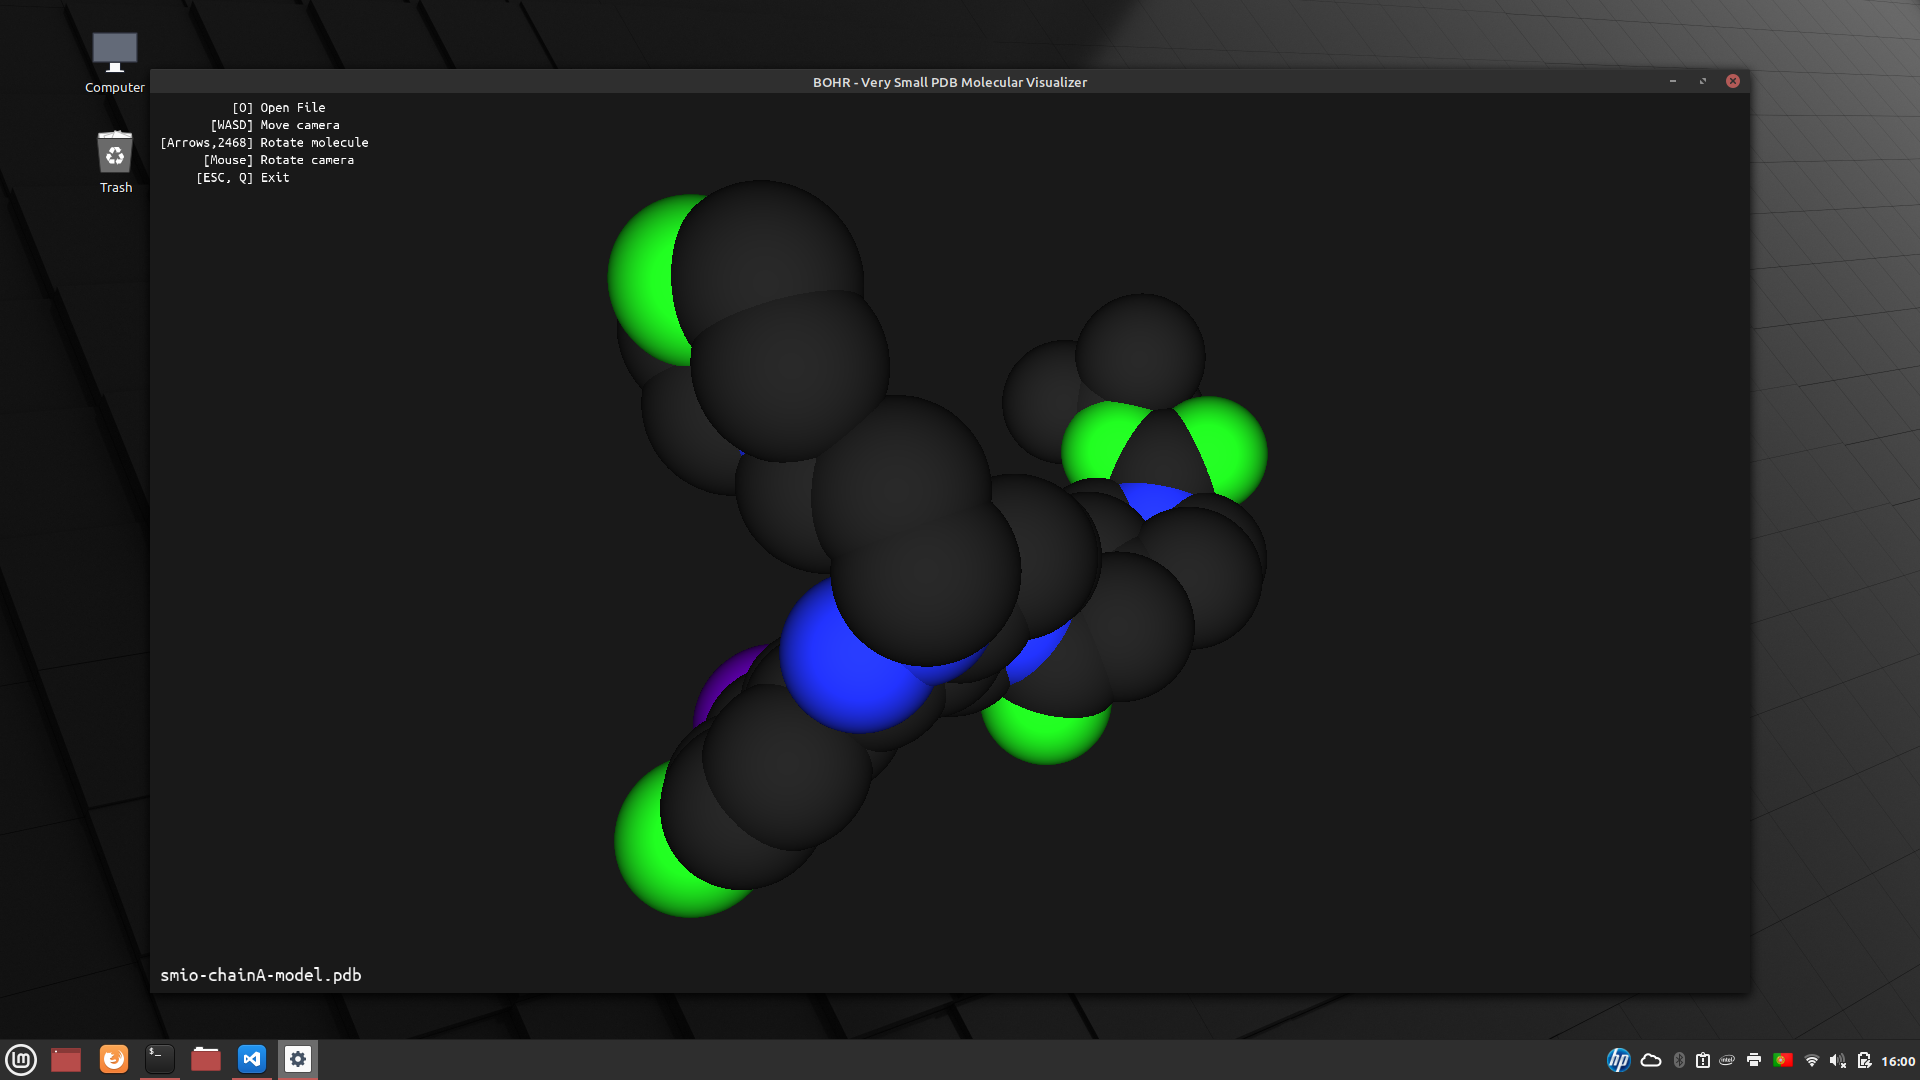
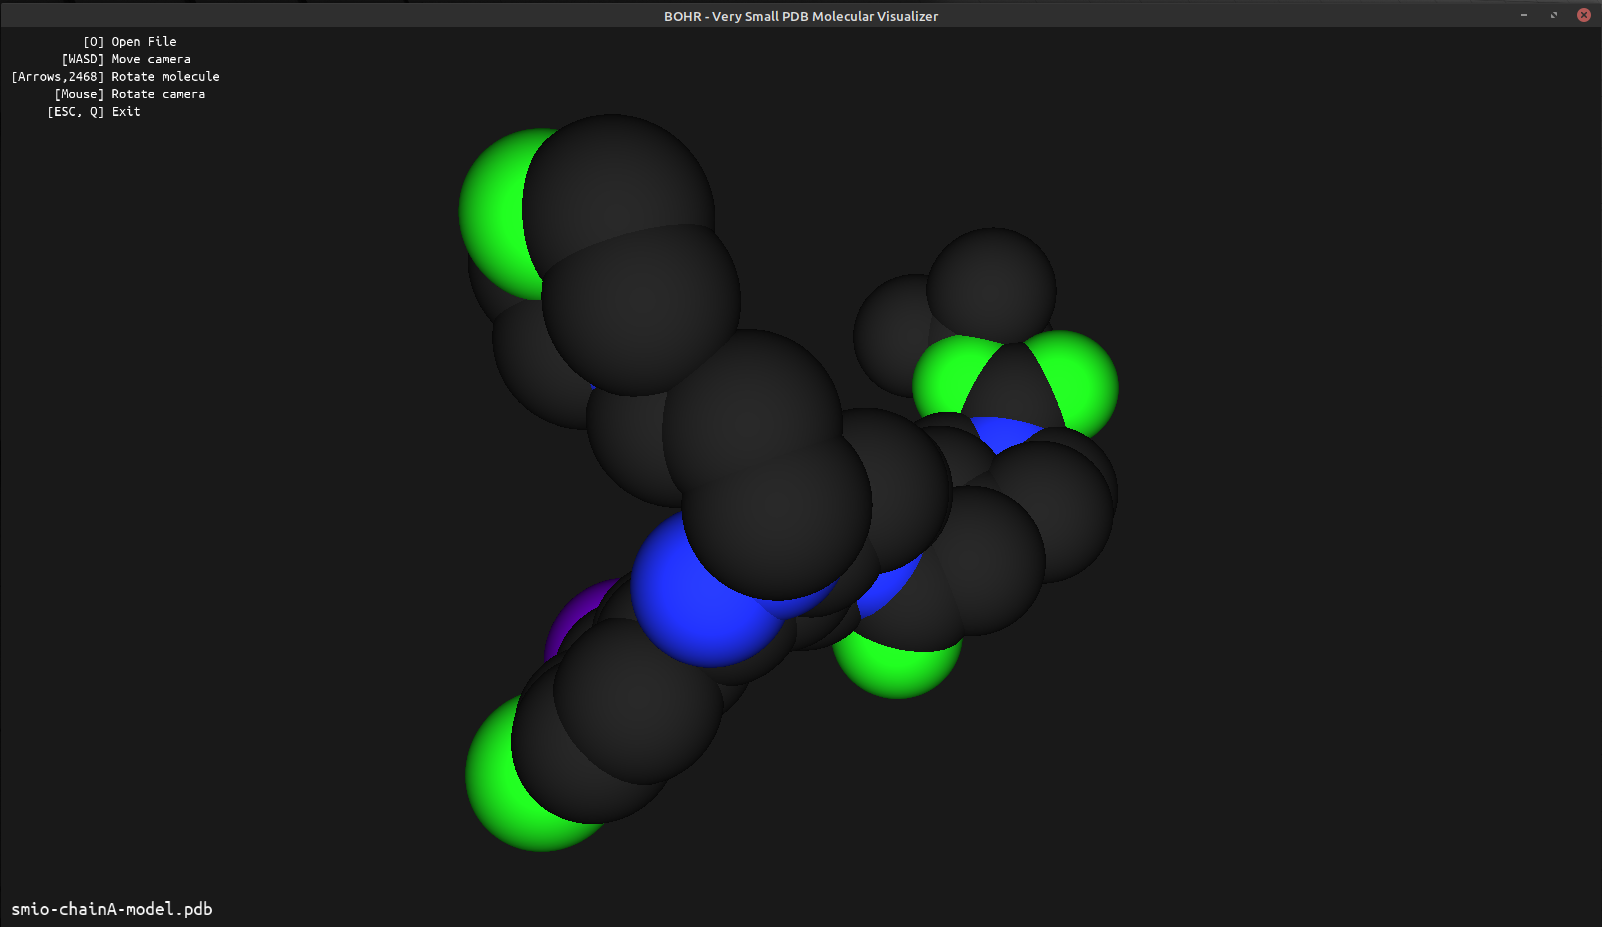
Final chapter 3

diff --git a/doc/implementacao.tex b/doc/implementacao.tex
@@ -4,7 +4,7 @@
 \section{Introdução}
 \label{sec::implement:intro}
 
-A fase de implementação, que se estendeu por cerca de \textbf{ADICIONAR TEXTO}, envolveu a execução paralela de diferentes tarefas pelos dois elementos do grupo. Este Capítulo aborda em particular os seguintes aspetos desta fase do projeto:
+A fase de implementação, que se estendeu por cerca de 2 semanas, envolveu a execução paralela de diferentes tarefas pelos dois elementos do grupo. Este Capítulo aborda em particular os seguintes aspetos desta fase do projeto:
 
 \begin{itemize}%[nosep]
 	\item Escolhas de implementação (Secção \ref{sec::implement:escolhas}): explica as decisões feitas durante a implementação do código-fonte;
@@ -18,30 +18,246 @@ o manual de utilização (Secção \ref{sec::implement:utilizacao}). %: exemplif
 \section{Escolhas de Implementação}
 \label{sec::implement:escolhas}
 
-Text\ldots
+A primeira e grande escolha de implementação que se faz notar ao longo de todo o código é a utilização de classes e das bibliotecas providenciadas pelo C++ a fim de tirar o máximo partido desta linguagem de programação.
+
+Desta forma, o código-fonte está organizado nas seguintes pastas:
+
+\begin{itemize}
+    \item \verb|bin|: inclui o binário compilado e as seguintes pastas:
+    \begin{itemize}[nosep]
+        \item \verb|fonts|: localização das fontes utilizadas para renderizar texto;
+        \item \verb|shaders|: alberga os \textit{fragment shaders} e os \textit{vertex shaders} para a renderização das moléculas e do texto.
+    \end{itemize}
+    \item \verb|deps|: pasta gerada pelo \textit{Makefile} para gerir as dependências durante a compilação;
+    \item \verb|doc|: aloja a documentação do projeto (nomeadamente o presente relatório);
+    \item \verb|include|: pasta com os \textit{header files} de todos os métodos e classes utilizados no projeto;
+    \item \verb|obj|: pasta gerada pelo \textit{Makefile} para guardar os ficheiros objeto a serem compilados no executável final;
+    \item \verb|src|: alberga todos os códigos-fonte (ficheiros \verb|*.cpp|) com a implementação dos métodos e das classes declaradas nos \textit{header files} da pasta \verb|include|.
+\end{itemize}
 
 
 \section{Detalhes de Implementação}
 \label{sec::implement:detalhes}
 
-Text\ldots
+O ficheiro principal, \verb|bohr.cpp|, aloja a função \verb|main()| de onde o programa arranca. Aqui são invocadas as seguintes funções de inicialização:
 
+\begin{minted}[breaklines,linenos]{cpp}
+GLFWwindow* initialize_glfw(int width, int height, const char* title);
+int initialize_glad(void);
+\end{minted}
+
+Estas funções inicializam, respetivamente, as bibliotecas GLFW e GLAD, necessárias para a comunicação com a \ac{API} do \opengl. Caso a primeira função retorne \verb|NULL| ou a segunda retorne \verb|0|, é gerada uma mensagem de erro na linha de comandos e o programa é abortado. A função de inicialização do GLFW em particular associa as funções de \textit{callback} para o teclado e para o rato.
+
+De seguida são compilados os \textit{shaders} de renderização das moléculas com recurso à classe \textit{Shader} (implementada em \verb|shader_m.cpp|):
+
+\begin{minted}[breaklines,linenos]{cpp}
+debug("Loading shaders...\n");
+Shader lightingShader = Shader("shaders/lighting_vs.glsl", "shaders/lighting_fs.glsl");
+\end{minted}
+
+Esta classe fornece métodos rápidos e muito acessíveis para manipular os dados passados aos \textit{shaders} e a respetiva utilização.
+
+É ainda inicializado o renderizador de texto:
+
+\begin{minted}[breaklines,linenos]{cpp}
+TextRenderer textrenderer = TextRenderer(SCR_WIDTH, SCR_HEIGHT);
+try {
+    textrenderer.Load("fonts/UbuntuMono-R.ttf", 24);
+} catch (const std::exception &e) {
+    std::cerr << e.what() << '\n';
+}
+\end{minted}
+
+A classe \textit{TextRenderer} está disponível \textit{online} \cite{textrender} para livre utilização, assim como os \textit{shaders} para a renderização deste mesmo texto.
+
+Por fim, o programa entra no seu ciclo de renderização. Este começa por limpar o \textit{buffer} atual e renderiza os textos, nomeadamente as instruções no canto superior esquerdo e o nome do ficheiro (se aberto) no canto inferior esquerdo.
+
+De imediato é processado o \textit{input} de teclado do utilizador com a seguinte função:
+
+\begin{minted}[breaklines,linenos]{cpp}
+action processInput(GLFWwindow *window, char **fname);
+\end{minted}
+
+Esta função ajusta os parâmetros da câmara conforme as teclas selecionadas, mas em particular trata de abrir a janela de diálogo para abrir um ficheiro novo com o seguinte excerto de código:
+
+\begin{minted}[breaklines,linenos]{cpp}
+if (glfwGetKey(window, GLFW_KEY_O) == GLFW_PRESS) {
+    switchModeView(window, false);
+    if (*fname != NULL) free(*fname);
+    *fname = openPDBFileDialog();
+    switchModeView(window, true);
+    return (*fname != NULL) ? action::OPEN_FILE : action::NO_ACTION;
+}
+\end{minted}
+
+O modo de visualização é temporariamente alterado a fim de permitir que o cursor do rato seja visível durante a seleção do ficheiro uma vez que este é oculto durante a renderização da molécula. Após obter o caminho para o ficheiro pretendido, a função verifica se porventura não será \verb|NULL|: neste caso, a molécula renderizada atualmente mantém-se e não é apagada da memória. Caso contrário, é devolvido um enumerador do tipo \verb|action| que indica que o utilizador selecionou um novo ficheiro:
+
+\begin{minted}[breaklines,linenos]{cpp}
+typedef enum {
+    NO_ACTION,
+    CAMERA_RESET,
+    OPEN_FILE
+} action;
+\end{minted}
+
+No ciclo de renderização é feita uma análise deste retorno a fim de determinar a próxima ação. O \textit{reset} da câmara envolve a invocação da seguinte chamada:
+
+\begin{minted}[breaklines,linenos]{cpp}
+camera = molecule.resetCamera();
+\end{minted}
+
+Esta função será vista mais à frente.
+
+Caso seja aberto um novo ficheiro, a sua extensão é verificada como forma de validação primária:
+
+\begin{minted}[breaklines,linenos]{cpp}
+bool isPBD(char *fname) {
+    return
+    string(std::experimental::filesystem::
+        path(fname).extension())
+        .compare(".pdb") == 0;
+}
+\end{minted}
+
+Sendo um ficheiro \ac{PDB}, a seguinte linha de código irá carregar uma nova molécula a partir do ficheiro selecionado pelo utilizador:
+
+\begin{minted}[breaklines,linenos]{cpp}
+    molecule = Molecule().fromPDB(fname);
+\end{minted}
+
+Por fim, a molécula é renderizada de forma a apresentar a superfície de \textit{van der Walls}:
+
+\begin{minted}[breaklines,linenos]{cpp}
+molecule.render_vanderWalls(lightingShader, camera, screen_width, screen_height, molrotx, molroty);
+\end{minted}
+
+À classe \textit{Molecule}, implementada no ficheiro \verb|pdbreader.cpp|, são delegadas todas as seguintes tarefas:
+
+\begin{itemize}
+    \item Ler o ficheiro \ac{PDB} e fazer o respetivo \textit{parsing} a fim de obter os átomos e as respetivas coordenadas;
+    
+    \item Obter os dados relativos a cada átomo dada a tabela periódica implementada em \verb|ptable.h|, nomeadamente o raio de \textit{van der Walls} \cite{ptable} e a cor CPK \cite{cpk};
+    
+    \item Computar as esferas associadas a cada átomo dado o raio determinado anteriormente;
+    
+    \item Renderizar as esferas nas posições correspondentes às coordenadas do respetivo átomo e com a respetiva cor;
+    
+    \item Determinar a posição inicial da câmara dada a dimensão da molécula processada através do método \verb|resetCamera()|.
+\end{itemize}
+
+Após estudo do formato de ficheiros \ac{PDB}, determinou-se que o \textit{parsing} seria simplificado uma vez que as posições de cada dado é esperado exatamente sempre na mesma posição de cada linha, em particular:
+
+\begin{itemize}
+    \item Três coordenadas nas posições 30, 38 e 46 da linha;
+    \item Símbolo atómico na posição 76.
+\end{itemize}
+
+Só as linhas começadas por \verb|ATOM| ou \verb|HETATM| são interpretadas uma vez que são estas aquelas que contêm os dados relativos aos átomos. Uma vez que só é pretendida a superfície, não é necessário calcular as ligações entre átomos (o formato \ac{PDB} não fornece esta informação explicitamente).
+
+Dada a política determinada anteriormente na Secção \ref{sec::implement:escolhas}, a classe \textit{Molecule} \textbf{não} é responsável por calcular os pontos das esferas. Uma classe própria existe para o efeito, \textit{VBOSphere}, sendo então criadas instâncias desta classe num vetor:
+
+\begin{minted}[breaklines,linenos]{cpp}
+bool Molecule::generateSpheres(void) {
+    this->spheres = vector<VBOSphere>();
+    for (auto atom : this->atoms) {
+        this->spheres.push_back(VBOSphere(atom.radius, 50, 50, PeriodicTable::getColorFromSymbol(atom.name)
+            .toVec3()));
+    }
+    return true;
+}
+\end{minted}
+
+Classes e estruturas (\textit{structs}) foram criadas para lidar com pontos e cores a fim de fornecer métodos imediatos para os converter no tipo de dados \verb|glm::vec3| através da função \verb|toVec3()|, comum a ambas as classes.
+
+A renderização da molécula passa por um ciclo que percorre todas as esferas anteriormente computadas, carregando no respetivo \textit{shader} a cor de cada esfera e a posição da câmara como fonte de luz. É de igual forma feita a transformação no mundo através de rotação, translação e escala (exatamente por esta ordem) a fim de posicionar a esfera no local exato. Bastará nesta fase invocar o seguinte método:
+
+\begin{minted}[breaklines,linenos]{cpp}
+this->spheres[i].render();
+\end{minted}
+
+O resultado final é semelhante ao do exemplo da Figura \ref{fig::bohr-main}.
 
 
 \section{Manual de Instalação}
 \label{sec::implement:instalar}
 
-Text\ldots
+O projeto foi implementado primariamente para o sistema operativo \textit{Linux}. Em especial, foi utilizado o \textbf{\textit{Linux Mint} 20.0} com as mais recentes atualizações em dia.
 
+A fim de compilar o projeto, é necessário ter as seguintes bibliotecas instaladas no sistema:
+
+\begin{itemize}[nosep]
+    \item \verb|g++|;
+    \item \verb|make|;
+    \item \verb|libglfw3-dev|;
+    \item \verb|libglm-dev|;
+    \item \verb|freetype|.
+\end{itemize}
+
+O \textit{Makefile} incluído tratará da compilação de todos os ficheiros de forma automática, sendo fornecidos três modos:
+
+\begin{enumerate}
+    \item \verb|make debug|: compila no modo \textit{debug}, o qual providencia informações adicionais durante a execução para fins de desenvolvimento;
+    \item \verb|make release|: compila no modo \textit{release}, ou seja, cria uma versão final para o utilizador final;
+    \item \verb|make clean|: elimina todas as dependências, ficheiros objeto e executáveis a fim de se poder realizar uma compilação fresca de seguida.
+\end{enumerate}
 
 
 \section{Manual de Utilização}
 \label{sec::implement:utilizacao}
 
-Text\ldots
+Com o projeto compilado, é \textbf{peremptória} a execução do programa através da linha de comandos \textbf{dentro da pasta} onde se encontra o executável. A sua execução é alcançada da seguinte forma:
+
+\begin{verbatim}
+./bohr
+\end{verbatim}
+
+Ao abrir, a aplicação apresenta apenas as opções disponíveis e indica no fundo a informação ``\textit{No file opened}'' (Figura \ref{fig::bohr-start}). As opções são as seguintes:
+
+\begin{itemize}[nosep]
+    \item Tecla \verb|O|: abrir ficheiro \ac{PDB};
+    \item Teclas \verb|WASD|: mover a câmara;
+    \item Rato: rodar a câmara;
+    \item Teclas \verb|2468| ou setas: rodar a molécula;
+    \item Teclas \verb|ESC| ou \verb|Q|: fechar a aplicação.
+\end{itemize}
+
+Com a opção \verb|O| (abrir ficheiro) é aberto um diálogo do sistema operativo para escolher um ficheiro à discrição do utilizador (Figura \ref{fig::bohr-opendialog}). Caso o ficheiro selecionado não seja um ficheiro \ac{PDB}, é apresentada uma mensagem de erro num diálogo gráfico (Figura \ref{fig::bohr-error}). Contudo, caso o ficheiro seja válido, a aplicação irá interpretar os dados e renderizar a nova molécula (exemplo na Figura \ref{fig::bohr-main}).
+
 
 
 \section{Conclusões}
 \label{chap3:sec:concs}
 
 A exposição dos pontos mais importantes relacionados com a fase de implementação da aplicação \theapp~permitiu ao grupo fazer uma retrospetiva do seu trabalho e perceber quais foram os pontos fortes e os pontos fracos do resultado final. Tal abre a porta para a última fase do projeto, uma fase sem código nem questões técnicas: a reflexão crítica.
+
+
+\begin{figure}[!btp]
+    \centering
+    \includegraphics[width=\textwidth]{bohr-start}
+    \caption[Aplicação após abertura]{Aplicação após abertura ou quando não tem uma molécula aberta para renderização.}
+    \label{fig::bohr-start}
+\end{figure}
+
+
+\begin{figure}[!btp]
+    \centering
+    \includegraphics[width=\textwidth]{bohr-opendialog}
+    \caption[Janela de diálogo para abertura de ficheiro]{Janela de diálogo do sistema operativo para abertura de um novo ficheiro \ac{PDB}.}
+    \label{fig::bohr-opendialog}
+\end{figure}
+
+
+\begin{figure}[!btp]
+    \centering
+    \includegraphics[scale=1.0]{bohr-error}
+    \caption[Mensagem de erro]{Mensagem de erro caso o ficheiro não seja válido.}
+    \label{fig::bohr-error}
+\end{figure}
+
+
+\begin{figure}[!btp]
+    \centering
+    \includegraphics[width=\textwidth]{bohr-main}
+    \caption[Exemplo de molécula renderizada]{Exemplo de uma molécula renderizada na aplicação após interpretação do ficheiro \ac{PDB}.}
+    \label{fig::bohr-main}
+\end{figure}

diff --git a/src/bohr.cpp b/src/bohr.cpp
@@ -51,8 +51,10 @@ void writeText(TextRenderer, string, float, float, float);
 
 
 /* Settings */
-const unsigned int SCR_WIDTH = 1600;
+const unsigned int SCR_WIDTH  = 1600;
 const unsigned int SCR_HEIGHT = 900;
+unsigned int screen_width     = SCR_WIDTH;
+unsigned int screen_height    = SCR_HEIGHT;
 
 /* Camera */
 Camera camera(glm::vec3(0.0f, 0.0f, 0.0f));
@@ -70,12 +72,13 @@ float deltaTime = 0.0f;
 float lastFrame = 0.0f;
 
 /* Fonts */
+TextRenderer textrenderer = TextRenderer(screen_width, screen_height);
 unsigned int font_VAO, font_VBO;
 std::map<char, Character> Characters;
 
 
 int main(int argc, char const *argv[]) {
-    GLFWwindow* window = initialize_glfw(SCR_WIDTH, SCR_HEIGHT, "BOHR - Very Small PDB Molecular Visualizer");
+    GLFWwindow* window = initialize_glfw(screen_width, screen_height, "BOHR - Very Small PDB Molecular Visualizer");
     if (window == NULL) {
         std::cout << "Failed to create the window" << std::endl;
         glfwTerminate();
@@ -94,7 +97,7 @@ int main(int argc, char const *argv[]) {
     Shader lightingShader = Shader("shaders/lighting_vs.glsl", "shaders/lighting_fs.glsl");
     // Shader fontShader = Shader("shaders/font_vs.glsl", "shaders/font_fs.glsl");
 
-    TextRenderer textrenderer = TextRenderer(SCR_WIDTH, SCR_HEIGHT);
+    // TextRenderer textrenderer = TextRenderer(screen_width, screen_height);
     try {
         textrenderer.Load("fonts/UbuntuMono-R.ttf", 24);
     } catch (const std::exception &e) {
@@ -147,7 +150,7 @@ int main(int argc, char const *argv[]) {
                     break;
             }
 
-            molecule.render_vanderWalls(lightingShader, camera, SCR_WIDTH, SCR_HEIGHT, molrotx, molroty);
+            molecule.render_vanderWalls(lightingShader, camera, screen_width, screen_height, molrotx, molroty);
 
             glfwSwapBuffers(window);
             glfwPollEvents();
@@ -259,6 +262,7 @@ bool isPBD(char *fname) {
 
 void framebuffer_size_callback(GLFWwindow* window, int width, int height) {
     glViewport(0, 0, width, height);
+    textrenderer = TextRenderer(screen_width, screen_height);
 }
 
 

diff --git a/doc/reflexao.tex b/doc/reflexao.tex
@@ -4,7 +4,7 @@
 \section{Introdução}
 \label{sec::reflexao:intro}
 
-Não obstante o bom planeamento feito \textit{a priori}, o projeto \appname, tal como qualquer outro na área das \ac{TI}, enfrentou alguns contratempos e, devido a problemas de saúde e pessoais severos por parte de um dos membros do grupo, não se revelou possível almejar todas as ambições inicialmente imaginadas. É preciso, pois, refletir sobre o desenvolvimento deste projeto.
+Não obstante o bom planeamento feito \textit{a priori}, o projeto \theapp, tal como qualquer outro na área das \ac{TI}, enfrentou alguns contratempos e, devido a problemas de saúde e pessoais severos por parte de um dos membros do grupo, não se revelou possível almejar todas as ambições inicialmente imaginadas. É preciso, pois, refletir sobre o desenvolvimento deste projeto.
 
 Neste Capítulo são, portanto, explorados os seguintes tópicos:
 

diff --git a/doc/relatorio-projeto.tex b/doc/relatorio-projeto.tex
@@ -88,10 +88,10 @@
 \newcommand{\usecasescale}{0.5}
 
 \newcommand{\theteam}{Lunáticos}
-\newcommand{\theapp}{Bohr}
+\newcommand{\theapp}{\emph{Bohr}}
 \newcommand{\theappdescription}{Very Small PDB Molecular Visualizer}
 \newcommand{\groupname}{{\itshape\theteam}}
-\newcommand{\appname}{\theapp:~{\itshape\theappdescription}}
+\newcommand{\appname}{\emph{\theapp}:~{\emph{\theappdescription}}}
 \newcommand{\opengl}{\textit{OpenGL}\textsuperscript{\textregistered}}
 
 \newcommand{\famousquote}[2]{
@@ -135,8 +135,8 @@
 
 % Se existirem trechos de código, descomentar as seguintes linhas
 % \clearpage{\thispagestyle{empty}\cleardoublepage}
-\listoflistings
-\addcontentsline{toc}{chapter}{\listoflistingscaption}
+%\listoflistings
+%\addcontentsline{toc}{chapter}{\listoflistingscaption}
 
 %\clearpage{\thispagestyle{empty}\cleardoublepage}
 \include{acronimos}

diff --git a/doc/acronimos.tex b/doc/acronimos.tex
@@ -9,6 +9,7 @@
     \acro{GLSL}{\textit{OpenGL Shader Language}}
     \acro{PDB}{\textit{Protein Database}}
 	\acro{SWOT}{\textit{Strength, Weakness, Opportunity, and Threat Analysis}}
+    \acro{TI}{Tecnologias de Informação}
 	\acro{UC}{Unidade Curricular}
 	\acro{URI}{\textit{Uniform Resource Identifier}}
 \end{acronym}

diff --git a/doc/capa.tex b/doc/capa.tex
@@ -16,7 +16,8 @@ Departamento de Informática
 \vspace{0,07cm}
 \begin{figure}[!htb]
 \centering
-\includegraphics[width=191pt]{ubi-fe-di.png}
+% \includegraphics[width=191pt]{ubi-fe-di.png}
+\includegraphics[width=191pt]{LogoBohr}
 \end{figure}
 
 \vspace{0.5cm}
